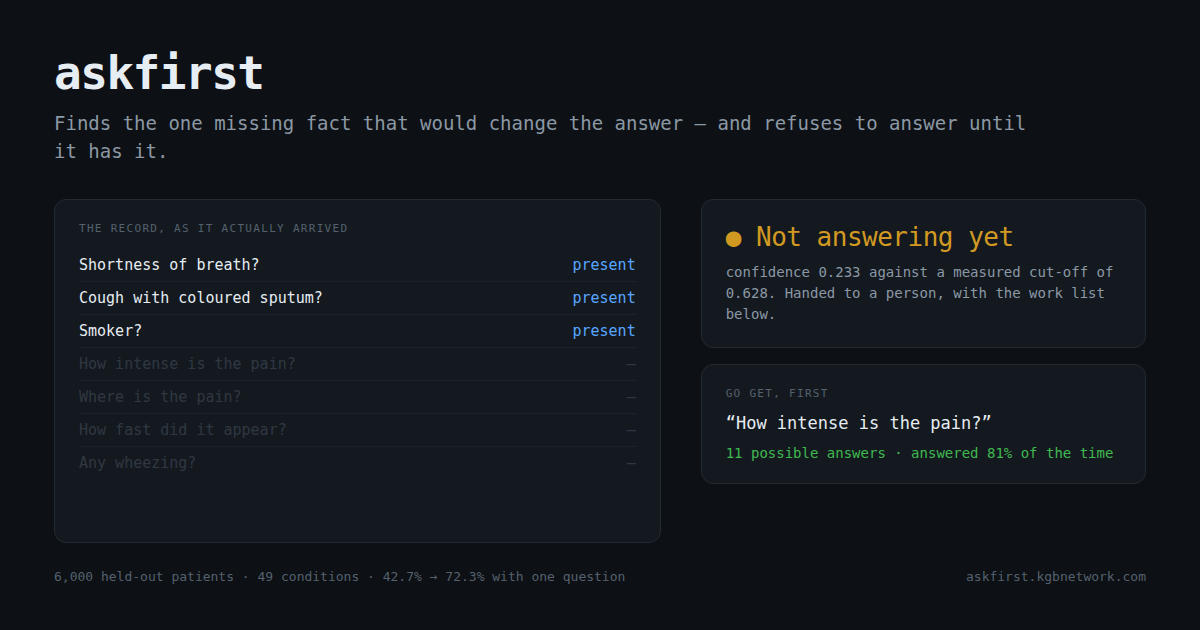
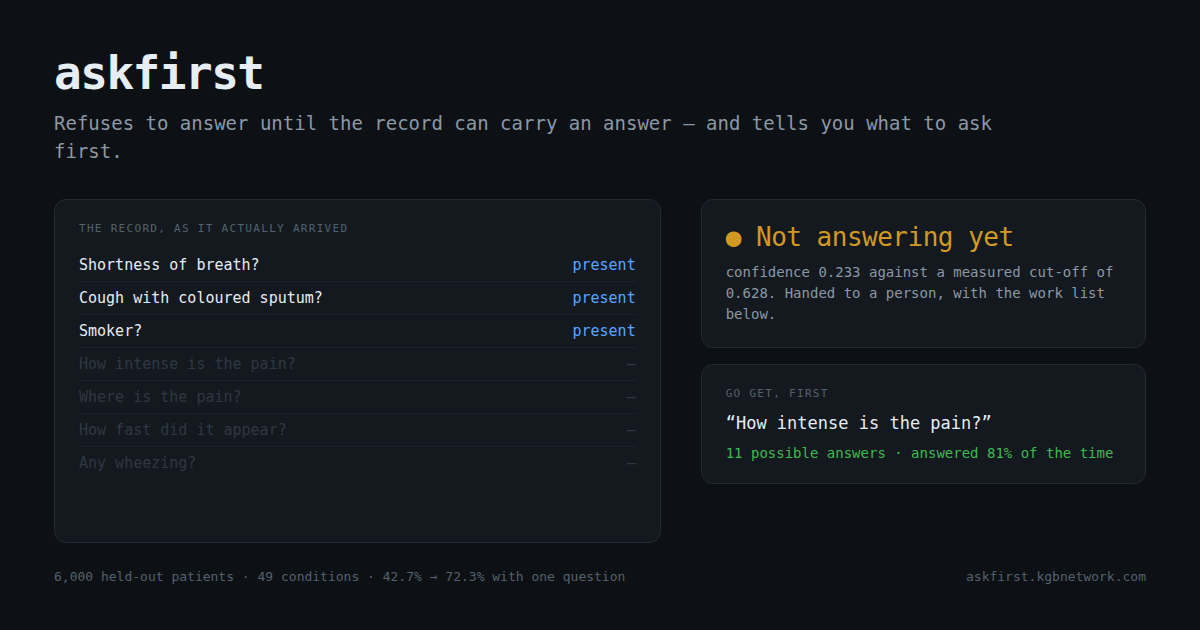
docs: lead with the result, and retire a tagline our own measurement contradicts
Both champion reviews said the same thing independently: the material is
championship-grade and it is packaged as a confession. Slide 2 opened on an
experiment whose logs and checksums are not in this repo — a judge cannot check
it — while the strongest verifiable result sat at slide 7 and the bottom of the
README.

Slide 1 now carries three numbers instead of a tagline: 45 wrong against 9,874,
35% of the queue, $0.0004 per 1,000. Slide 2 is the failure measured twice —
GPT-5 taking an offered way out 19.2% of the time (arXiv 2608.09080 Table IV,
checked against the table rather than the abstract), then our own: delete four
fifths of a record and the open model's confidence falls 12% where a fitted
classifier's falls 83%. That artifact opens in one click. The syringe run was
real work on a different project and could not carry the opening here.

The README opens on the same two measurements and then the prose result —
a reader that loses 28% of the findings introducing zero wrong answers.

And the tagline is gone. "Finds the one missing fact that would change the
answer" describes the flip-probability objective, which measured 18.8% against
26.0% for a coin and was abandoned in the first day. The shipped ranking is
patient-independent by construction and that is the repo's own headline
finding — so a judge clicking two patients saw identical lists under a line
promising the opposite. It now says what the thing does: refuses until the
[…]

Changed region(s): [[0.0308, 0.181, 0.8633, 0.2714]]

diff --git a/ui/deck.html b/ui/deck.html
@@ -57,26 +57,36 @@
 <section class="on">
   <div class="tag">AMD Developer Hackathon ACT III · Track 2, Health and Wellbeing</div>
   <h1>askfirst</h1>
-  <p class="lede">It finds the one missing fact that would change the answer — and refuses
-  to answer until it has it.</p>
+  <p class="lede">It works out how much of a record is missing — without being told — and refuses
+  to answer when there is not enough there.</p>
+  <table>
+    <tr><td>30,000 held-out records, completeness undeclared</td><td class="bad">9,874 wrong</td><td class="key"><strong>45 wrong</strong></td></tr>
+    <tr><td>of the queue it takes off a person</td><td>—</td><td><strong>35%</strong></td></tr>
+    <tr><td>cost to serve, per 1,000 assessments</td><td>—</td><td><strong>$0.0004</strong></td></tr>
+  </table>
+  <p class="dim">Every number in this deck regenerates from public data with
+  <code>./scripts/verify.sh</code> in four minutes, and a test fails if any slide drifts from its
+  artifact.</p>
   <div class="src">askfirst.kgbnetwork.com · github.com/shivang-goliyan/askfirst</div>
 </section>
 
 <section>
-  <div class="tag">The failure, not described but measured</div>
-  <h2>We asked a commercial vision model to read 15 photographs of real syringes.<br>
-  We told it <span class="dim">"unknown"</span> was an acceptable answer.</h2>
-  <table>
-    <tr><td>Wrong on</td><td class="bad">9 of 15</td></tr>
-    <tr><td>Times it said unknown</td><td class="bad">0 of 15</td></tr>
-    <tr><td>Read from an <em>empty</em> syringe</td><td class="bad">1.0 mL</td></tr>
-    <tr><td>Answers given to one byte-identical file</td><td class="bad">2 different</td></tr>
-    <tr><td>Worst single error</td><td class="bad">+71%</td></tr>
-  </table>
-  <p>The problem is not that it was wrong. It is that it was <strong>certain</strong> and wrong,
-  and nothing in the output separated that case from a correct one.</p>
-  <div class="src">Our own run, logged, checksums kept. Published corroboration: MeasureBench
-  (arXiv 2510.26865) — a frontier model at 19.8% on measurement reading, 2.0% on composite gauges.</div>
+  <div class="tag">The failure, measured twice — once by someone else, once by us</div>
+  <h2>Offered a way out, a frontier model takes it one time in five.</h2>
+  <p>Take 500 clinical questions, delete the correct option, and put <em>"insufficient
+  information"</em> on the page instead. <strong>GPT-5 abstains 19.2% of the time</strong> and
+  picks one of the remaining wrong answers for the other
+  <span class="bad">80.8%</span>, at a mean confidence of 0.69.</p>
+  <div class="src">Newman-Toker is elsewhere in this deck; this is arXiv 2608.09080, Table IV,
+  on MedMCQA. We checked the table rather than the abstract.</div>
+  <p class="lede">So we deleted four fifths of a patient record and asked an open model again.
+  Its confidence fell <span class="bad">12%</span>. A classifier fitted to the same data lost
+  <span class="cool">83%</span> of its confidence on the same deletion.</p>
+  <p>It still ranks its own answers well — its most confident thirtieth is 93.3% right against
+  35.3% overall. What it cannot do is notice the batch got harder, so a cut-off set on complete
+  records to deliver 80% delivers 54.7% at two fifths. <strong>That gap is the product.</strong></p>
+  <div class="src">docs/results/rehearsal-llm-grid.json — 300 patients, 3 record sizes, 44,100
+  scored prompts, open in one click</div>
 </section>
 
 <section>

diff --git a/ui/index.html b/ui/index.html
@@ -46,7 +46,7 @@
 </style>
 <div class="wrap">
   <h1>askfirst</h1>
-  <div class="sub">Finds the one missing fact that would change the answer &mdash; and refuses to answer until it has it.</div>
+  <div class="sub">Refuses to answer until the record can carry an answer &mdash; and tells you what to ask first.</div>
 
   <div class="panel">
     <h2>How much of the record is in? That decides how much to refuse.</h2>

diff --git a/ui/cover.html b/ui/cover.html
@@ -36,8 +36,8 @@
 </style>
 <div class="wrap">
   <h1>askfirst</h1>
-  <div class="sub">Finds the one missing fact that would change the answer &mdash;
-    and refuses to answer until it has it.</div>
+  <div class="sub">Refuses to answer until the record can carry an answer &mdash;
+    and tells you what to ask first.</div>
 
   <div class="body">
     <div class="card rec">

diff --git a/README.md b/README.md
@@ -1,25 +1,28 @@
 # askfirst
 
-**Finds the one missing fact that would change the answer — and refuses to answer until it has it.**
+**Refuses to answer until the record can carry an answer — and tells you what to ask first.**
 
 **Live: [askfirst.kgbnetwork.com](https://askfirst.kgbnetwork.com)** · [the deck](https://askfirst.kgbnetwork.com/deck.html)
 
-Ask a model to decide something from an incomplete record and it will decide anyway. It sounds
-exactly as confident when the one result that settles the case is absent. Take 500 clinical
-questions, delete the correct option, and offer "insufficient information" instead: GPT-5 picks
-one of the remaining wrong answers **80.8% of the time**, at a mean confidence of 0.69
-(arXiv 2608.09080, Table IV). Abstaining was an option on the page and it took it 19.2% of the
-time.
+Take 500 clinical questions, delete the correct option, and put *"insufficient information"* on
+the page instead. **GPT-5 takes the way out 19.2% of the time** and picks one of the remaining
+wrong answers for the other 80.8%, at a mean confidence of 0.69 (arXiv 2608.09080, Table IV).
 
-askfirst does not decide. It sits in front of the model that does, and answers a narrower
-question: *is there enough here?* When there isn't, it refuses and names what to go and find,
-**widest question first** — and, where questions carry a price, what it costs to get.
+So we deleted four fifths of a patient record and asked an open model again. **Its confidence fell
+12%. A classifier fitted to the same data lost 83% of its confidence on the same deletion.** That
+gap is the product: askfirst works out how much of a record is missing *without being told*, to
+within 0.057, and refuses below a floor whatever the confidence says. On **30,000 held-out records
+of undeclared completeness it answers 35% of them at 99.6% — 45 wrong instead of 9,874** — and
+hands the rest to a person with a ranked list of what to go and get.
 
-That ordering is deliberately a property of the questions rather than of the patient, and it is
-the whole finding: every patient-specific objective we tried lost to a coin, and this one beat
-them all by 28.6 points at three findings (16 to 33 across the three record sizes). The patient-specific numbers are still on the page beside it — what the
-current answer rests on, what each answer would settle, how often one more fact would change the
-decision — they just do not decide the order.
+Then we stopped giving it fields. Feeding it **prose**, through a reader that loses 28% of the
+findings, it answered seven fewer cases in a hundred and introduced **zero wrong answers**: what
+the reader misses makes the record look thinner, and a thinner record is exactly what the gate
+refuses. The error turns into caution instead of a confident mistake, which is the only test of
+this idea that counts.
+
+Every number here regenerates from public data in four minutes with `./scripts/verify.sh`, and a
+test fails naming any document that drifts from its artifact.
 
 Two domains, one engine.
 

diff --git a/docs/DECK.md b/docs/DECK.md
@@ -9,7 +9,7 @@ number is not in `docs/results/`, it does not go on a slide.
 ## 1 — Title
 
 > **askfirst**
-> It finds the one missing fact that would change the answer, and refuses to answer until it has it.
+> It refuses to answer until the record can carry an answer, and tells you what to ask first.
 
 Live URL. Repo URL. Track 2, Health and Wellbeing.
 

diff --git a/docs/SUBMISSION.md b/docs/SUBMISSION.md
@@ -11,7 +11,7 @@ repo; if a measurement moves, this file moves with it.
 
 ## One line
 
-Finds the one missing fact that would change the answer — and refuses to answer until it has it.
+Refuses to answer until the record can carry an answer — and tells you what to ask first.
 
 ## Short description
 
